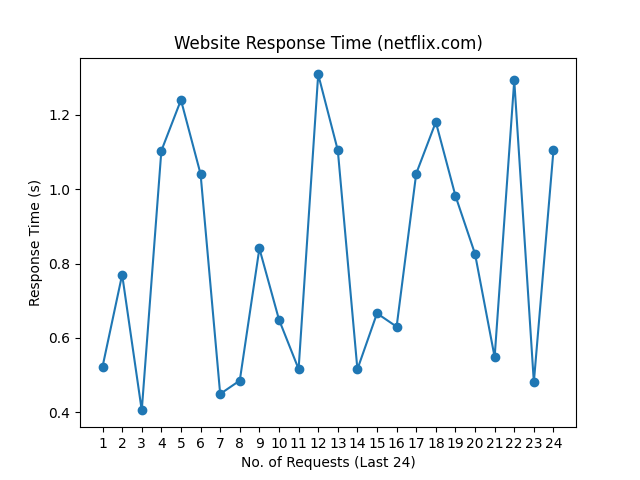
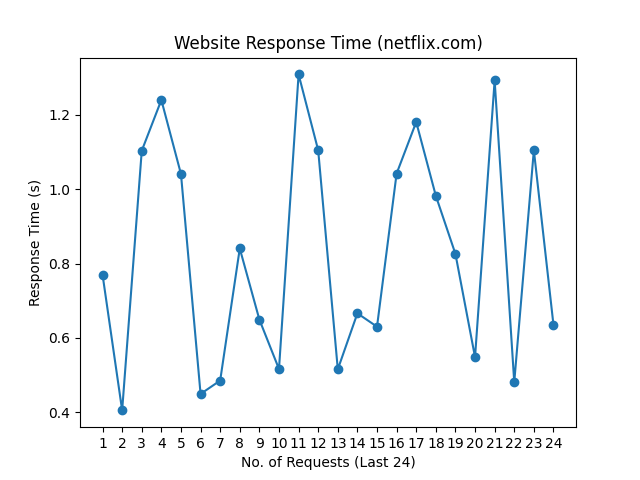
update README.md, history and graph

Changed region(s): [[0.1562, 0.125, 0.875, 0.875]]

diff --git a/README.md b/README.md
@@ -1,10 +1,10 @@
 # Web Monitoring
 
-Last Checked: 16/12/2023 09:03
+Last Checked: 17/12/2023 09:07
 
 | Website | Response Time (s) | Status | Avg Uptime (%) |
 |---------|-------------------|--------|----------------|
 | www.thiswebsiteisdown.net | 0 <br> <img src="graph/thiswebsiteisdown.net.png" alt="Graph" width="200" height="200">  | ❌ Down | 0.00 |
-| www.netflix.com | 1.104997 <br> <img src="graph/netflix.com.png" alt="Graph" width="200" height="200">  | ✅ Up | 100.00 |
-| www.google.com | 0.101394 <br> <img src="graph/google.com.png" alt="Graph" width="200" height="200">  | ✅ Up | 100.00 |
-| www.facebook.com | 0.724261 <br> <img src="graph/facebook.com.png" alt="Graph" width="200" height="200">  | ✅ Up | 100.00 |
+| www.netflix.com | 0.635132 <br> <img src="graph/netflix.com.png" alt="Graph" width="200" height="200">  | ✅ Up | 100.00 |
+| www.google.com | 0.064984 <br> <img src="graph/google.com.png" alt="Graph" width="200" height="200">  | ✅ Up | 100.00 |
+| www.facebook.com | 0.406990 <br> <img src="graph/facebook.com.png" alt="Graph" width="200" height="200">  | ✅ Up | 100.00 |
